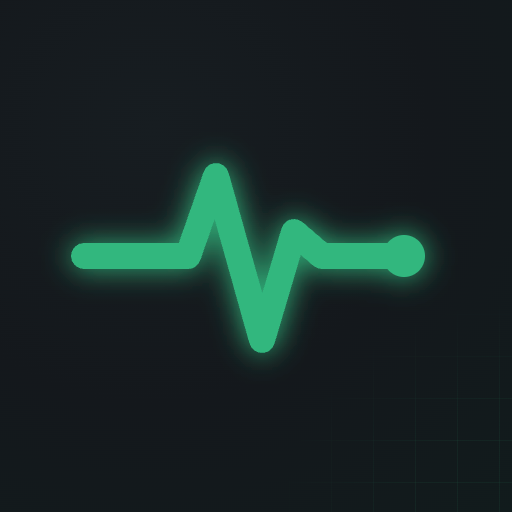
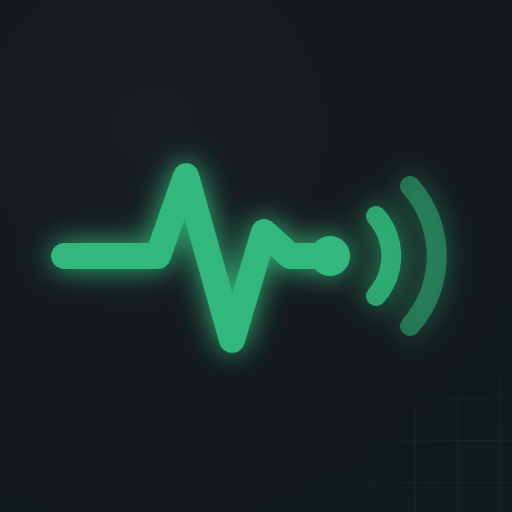
feat: Give the brand mark its broadcast arcs
The pulse now ends in a dot that radiates two signal arcs, picked from
three explored directions because it says what the app does: the pulse is
measured and then published. Applied everywhere the mark appears: the
adaptive launcher icon and its density PNGs, the store icon, the feature
graphic and the repository banner, all rendered from docs/brand/.

Changed region(s): [[0.25, 0.2812, 0.875, 0.7188], [0.0625, 0.4375, 0.1562, 0.5625]]

diff --git a/docs/brand/icon.html b/docs/brand/icon.html
@@ -45,12 +45,18 @@
         </feMerge>
       </filter>
     </defs>
-    <!-- Heartbeat: flat in, spike, deep dip, recovery, flat out to endpoint dot -->
+    <!-- Heartbeat broadcast: pulse, endpoint dot, and two arcs radiating the signal.
+         The chosen mark (variant 1 of the 2026-09-14 explorations): the pulse is
+         measured AND published, which is exactly what the app does. -->
     <g filter="url(#glow)">
-      <path d="M84 256 L188 256 L216 176 L262 340 L294 232 L322 256 L404 256"
+      <path d="M64 256 L158 256 L186 176 L232 340 L264 232 L290 256 L330 256"
             fill="none" stroke="#30B77E" stroke-width="26"
             stroke-linecap="round" stroke-linejoin="round"/>
-      <circle cx="404" cy="256" r="21" fill="#30B77E"/>
+      <circle cx="330" cy="256" r="20" fill="#30B77E"/>
+      <path d="M376 216 A 60 60 0 0 1 376 296" fill="none" stroke="#30B77E"
+            stroke-width="20" stroke-linecap="round" opacity="0.85"/>
+      <path d="M410 186 A 105 105 0 0 1 410 326" fill="none" stroke="#30B77E"
+            stroke-width="20" stroke-linecap="round" opacity="0.5"/>
     </g>
   </svg>
 </body>

diff --git a/docs/brand/banner.html b/docs/brand/banner.html
@@ -87,6 +87,10 @@
             fill="none" stroke="#30B77E" stroke-width="9"
             stroke-linecap="round" stroke-linejoin="round"/>
       <circle cx="540" cy="78" r="11" fill="#30B77E"/>
+      <path d="M562 61 A 26 26 0 0 1 562 95" fill="none" stroke="#30B77E"
+            stroke-width="9" stroke-linecap="round" opacity="0.85"/>
+      <path d="M580 47 A 48 48 0 0 1 580 109" fill="none" stroke="#30B77E"
+            stroke-width="9" stroke-linecap="round" opacity="0.5"/>
     </g>
   </svg>
 

diff --git a/docs/brand/feature-graphic.html b/docs/brand/feature-graphic.html
@@ -89,6 +89,10 @@
             fill="none" stroke="#30B77E" stroke-width="7"
             stroke-linecap="round" stroke-linejoin="round"/>
       <circle cx="432" cy="62" r="9" fill="#30B77E"/>
+      <path d="M450 48 A 21 21 0 0 1 450 76" fill="none" stroke="#30B77E"
+            stroke-width="7" stroke-linecap="round" opacity="0.85"/>
+      <path d="M464 37 A 39 39 0 0 1 464 87" fill="none" stroke="#30B77E"
+            stroke-width="7" stroke-linecap="round" opacity="0.5"/>
     </g>
   </svg>
 

diff --git a/CHANGELOG.md b/CHANGELOG.md
@@ -4,6 +4,10 @@ All notable changes to this project are documented in this file. The format is b
 
 ## [Unreleased]
 
+### Changed
+
+- The brand mark gained broadcast arcs: the pulse ends in a dot that radiates the signal, chosen from three explored directions because measuring AND publishing is what the app does. Applied to the launcher icon, the store icon, the feature graphic and the repository banner, all rendered from the sources in `docs/brand/`
+
 ## [1.12.1] - 2026-09-14
 
 ### Added
